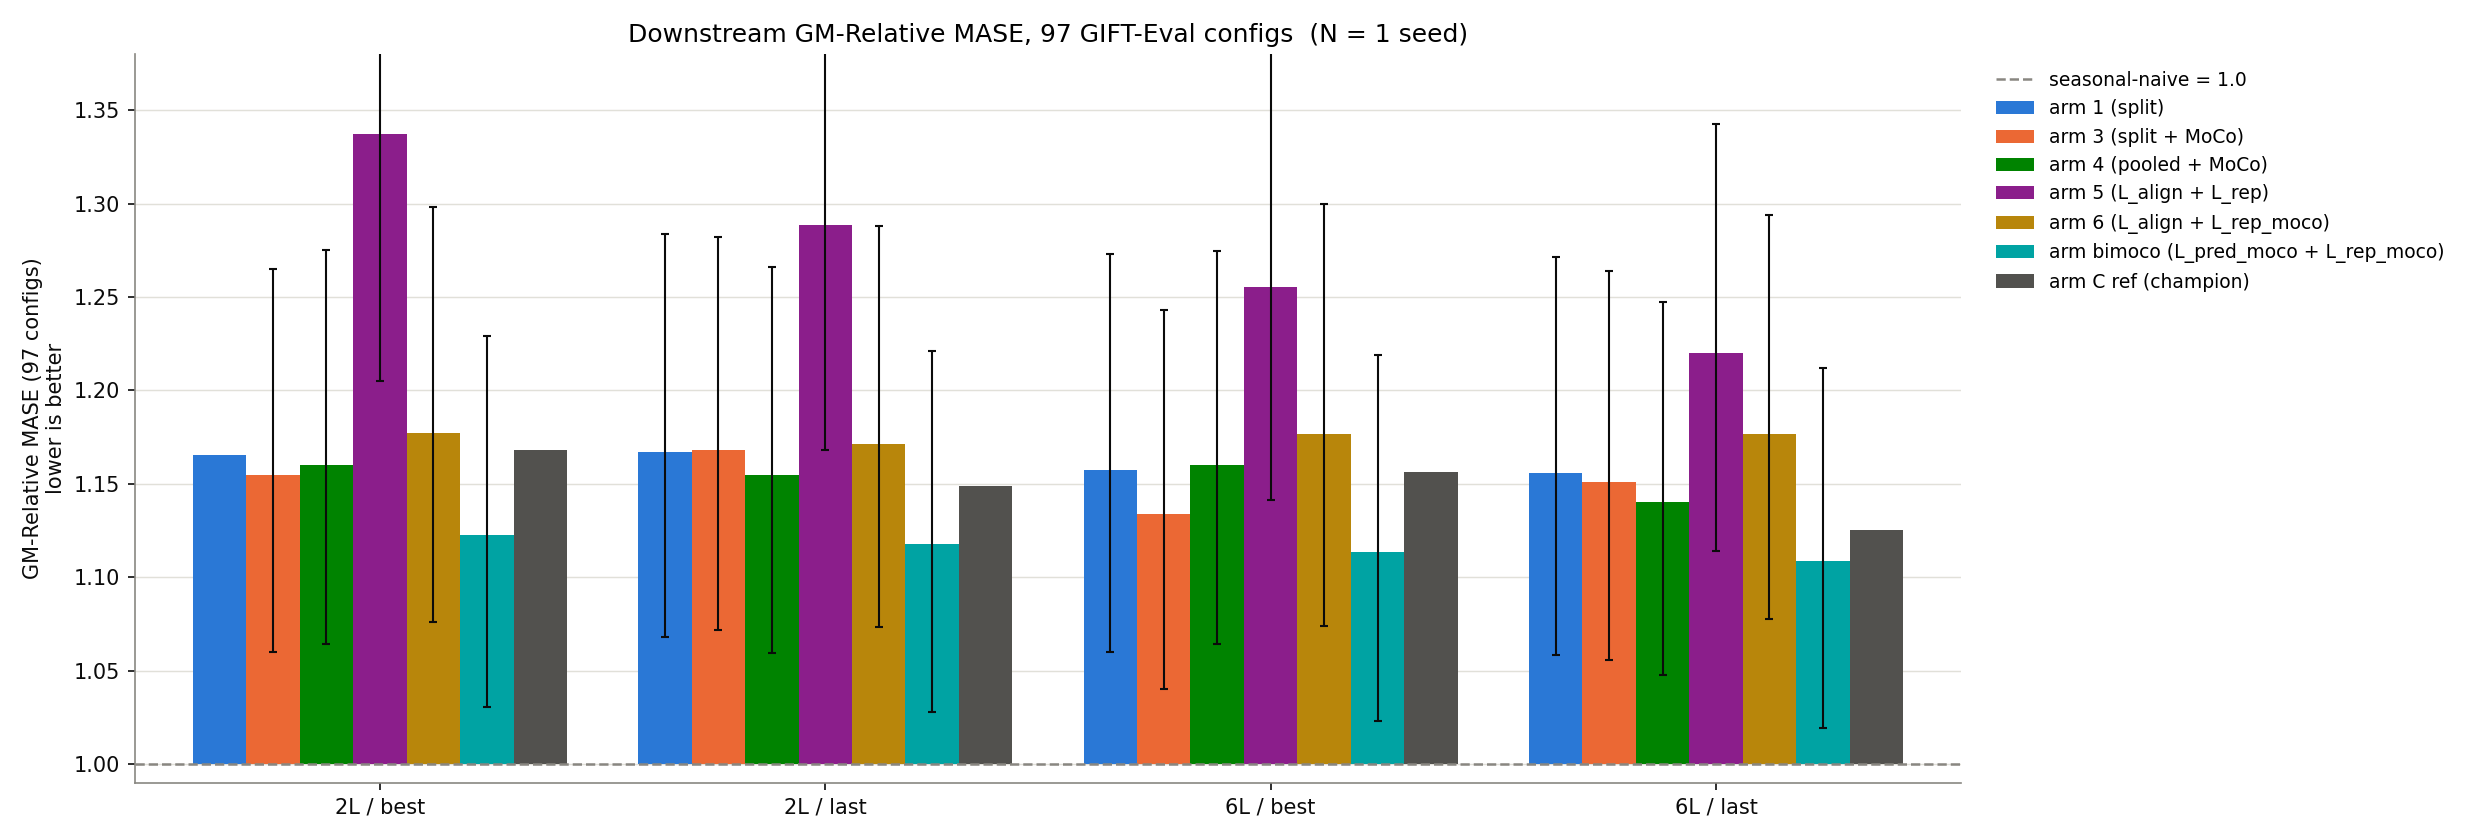
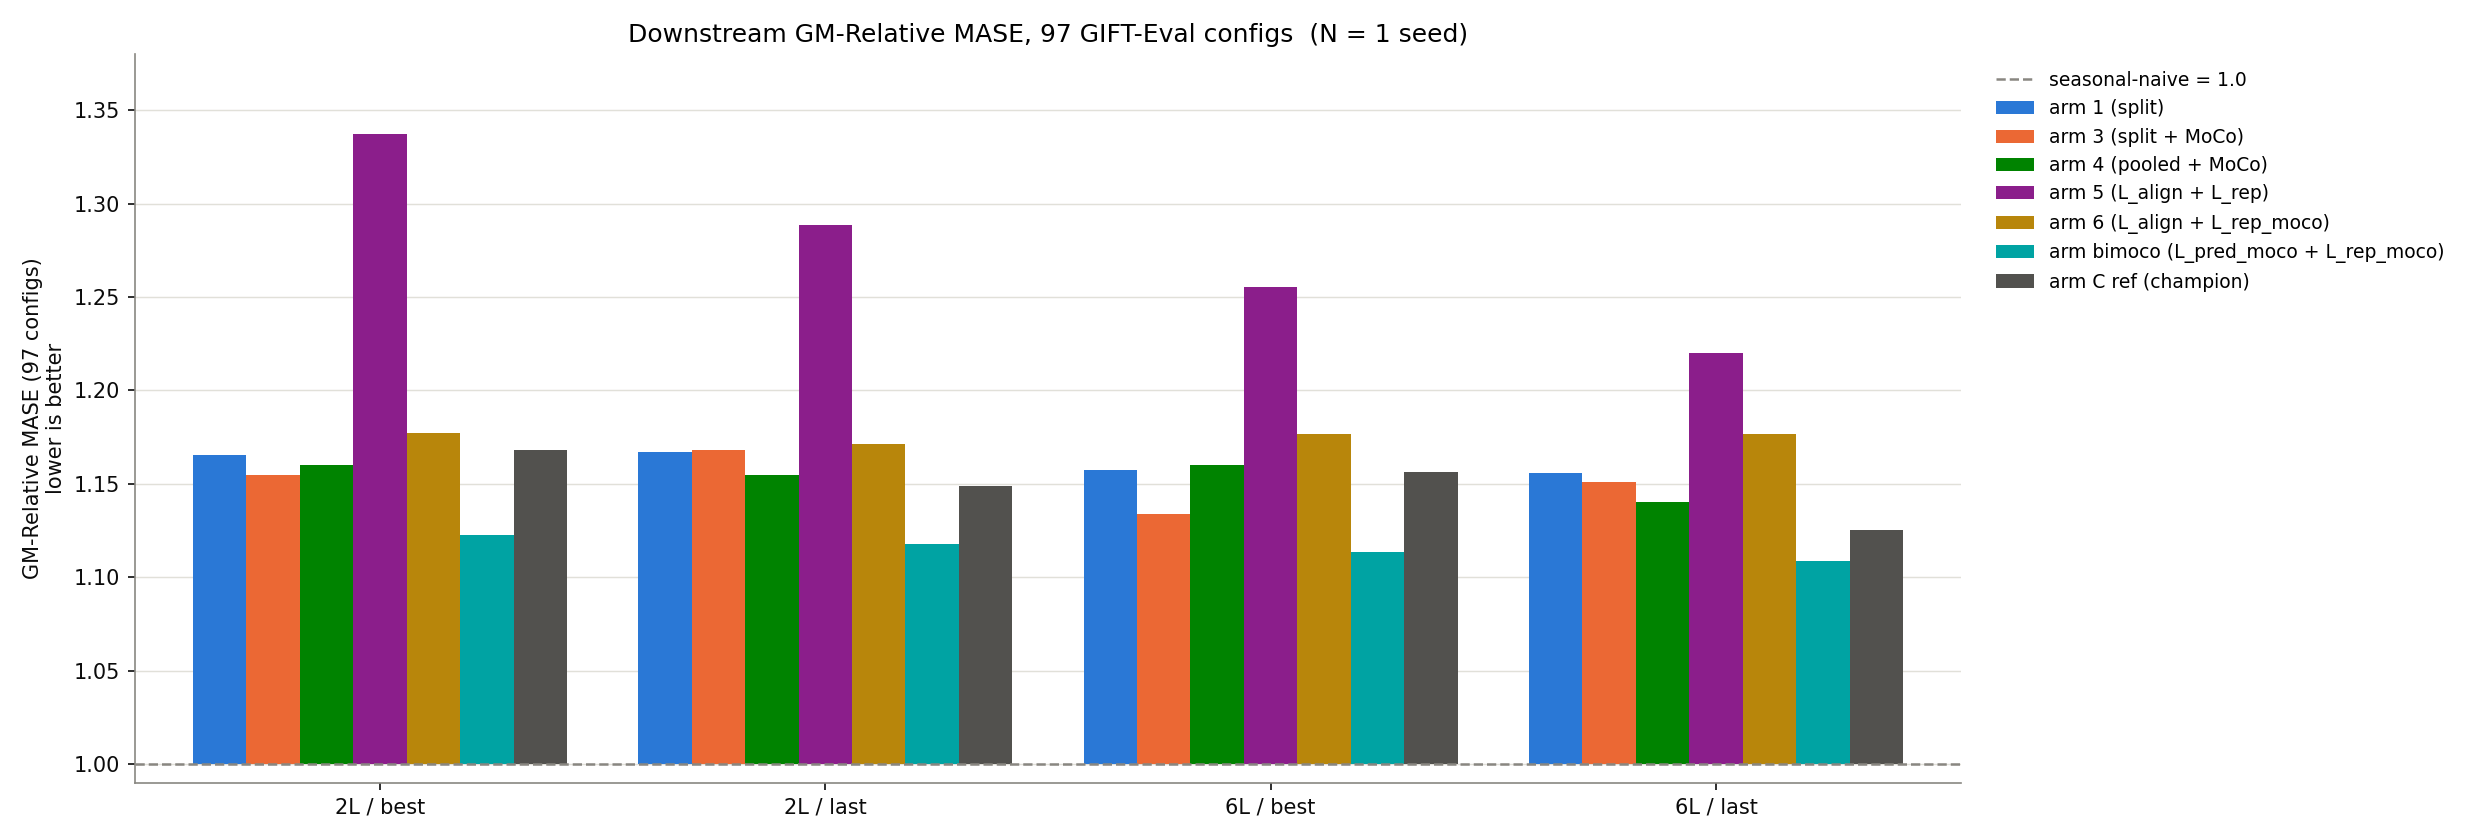
report(#374): apply reviewer edits — finding-first title/answer, drop marginal error bars from headline, define f/h/sg, note arm-2 gap

diff --git a/reports/2026-07-10_split_pred_rep/plots/_make_plots.py b/reports/2026-07-10_split_pred_rep/plots/_make_plots.py
@@ -122,11 +122,6 @@ def headline() -> None:
             vals = [read_aggregate(arm, h, c) for h, c in GROUPS]
         for xi, (v, (h, c)) in zip(x, zip(vals, GROUPS)):
             ax.bar(xi + off, v - 1.0, width, bottom=1.0, color=colour)
-            if arm is not None:
-                ci = bootstrap_gm_ci(cell_relatives(arm, h, c))
-                if ci is not None:
-                    ax.errorbar(xi + off, v, yerr=[[v - ci[0]], [ci[1] - v]],
-                                fmt="none", ecolor=INK, elinewidth=1.0, capsize=2)
         ax.bar(0, 0, color=colour, label=label)  # legend proxy
     ax.axhline(1.0, color=MUTED, lw=1.2, ls="--", label="seasonal-naive = 1.0")
     ax.set_xticks(x, [f"{h} / {c}" for h, c in GROUPS])

diff --git a/reports/2026-07-10_split_pred_rep/split_pred_rep.md b/reports/2026-07-10_split_pred_rep/split_pred_rep.md
@@ -1,14 +1,12 @@
-# Split L_pred + L_rep contrastive loss — arm sweep on the SIGReg-champion backbone
+# Splitting the contrastive loss into L_pred + L_rep does not beat the SIGReg-champion; MoCo-on-both (bimoco) leads the sibling arms, but only at 12,500 steps
 
 **Question.** The champion loss merges five negative tensors under one pooled log-sum-exp denominator. Does splitting it into `L_pred` (f-anchored) and `L_rep` (h-anchored) improve GM-Relative MASE on the GIFT-Eval 97-config panel, and does adding EMA-teacher MoCo keys or replacing `L_pred` with BYOL alignment change the answer? (terms defined in annex)
 
-**Answer.** No arm is established as beating the SIGReg-champion. Only point estimates exist against arm C (no per-task file → no CI). bimoco's estimates are lower than arm C in all four cells, but the narrowest gap is 0.0167 (6L / last: 1.1254 → 1.1087) — 1.1254 is the arm-C point estimate, an external file with no per-task CI, so the 0.0167 gap is a point-estimate difference only. Among the six sibling arms, `L_pred_moco + L_rep_moco` (bimoco) has the lowest GM-Relative MASE at all four 12,500-step (head, checkpoint) cells — 1.1225 / 1.1180 / 1.1138 / 1.1087 — and is 95 %-separated from arms 1, 3, 4, 5, 6 in every cell (paired task-bootstrap, below). The lead does not hold past 12,500 steps: arm 4 (pooled + MoCo) matches or beats bimoco at 25k. Single seed (20260520).
+**Answer.** No arm is established as beating the SIGReg-champion (arm C). Among the six sibling arms, `L_pred_moco + L_rep_moco` (bimoco) has the lowest GM-Relative MASE at all four 12,500-step (head, checkpoint) cells and is 95 %-separated from arms 1, 3, 4, 5, 6 in every cell (paired task-bootstrap, below). bimoco's point estimates are also below arm C in all four cells (narrowest gap 0.0167 at 6L / last), but arm C has no per-task file on this branch, so that gap is a point-estimate difference with no CI. The lead does not hold past 12,500 steps: arm 4 (pooled + MoCo) matches or beats bimoco at 25k. Single seed (20260520).
 
 ## Result
 
-![Downstream GM-Relative MASE per arm at each (head, checkpoint) cell. Bars carry the 95 % task-bootstrap band over the 97 configs; the champion (arm C) carries no paired CI. Dashed line = seasonal-naive (1.0).](plots/headline_relmase.png)
-
-These marginal bands are not the separation test; arm separation is read from the CI-forest figure below.
+![Downstream GM-Relative MASE per arm at each (head, checkpoint) cell (point estimates; N = 1 seed). Dashed line = seasonal-naive (1.0). Arm separation is the paired task-bootstrap in the CI-forest figure below, not a bar-to-bar comparison here.](plots/headline_relmase.png)
 
 | arm | 2L / best | 2L / last | 6L / best | 6L / last |
 | --- | --: | --: | --: | --: |
@@ -73,6 +71,8 @@ All backbones: B = 512, T = 4096, C = 1, τ = 0.10, `lr = 1e-3`, seed 20260520, 
 | arm bimoco | `cosine_similarity_batch_split_pred_rep` | `--moco-negatives --moco-rep-keys` | `L = L_pred_moco + L_rep_moco`; MoCo + positive-in-denominator on both terms |
 | arm C ref | `cosine_similarity_batch_full_hh_negs_xshh_allt` | — | SIGReg-cross champion (λ_e = 1, λ_h = 1, EMA τ = 0.90), reused without retraining |
 
+Arm 2 is a slot in the original issue numbering that was not run in this sweep; the arm sequence is 1, 3, 4, 5, 6, bimoco, C.
+
 ## Backbone step (annex)
 
 | arm | `best` cell step | `last` cell step | `FINAL.pth` = |
@@ -89,12 +89,13 @@ Arms 1 and 4's `best`-cell backbone is not the argmin of a comparable curve: arm
 
 ## Definitions (annex)
 
+- *f* / *h* — *f* is the forecaster's next-step latent (the forecast); *h* is the encoder's original latent. *f-anchored* / *h-anchored* families take *f* resp. *h* as the query.
 - *GM-Relative MASE* — geometric mean over the 97 GIFT-Eval configs of `(model MASE) / (seasonal-naive MASE)`, at quantile 0.5. Lower is better; 1.0 = seasonal-naive.
 - *log-sum-exp denominator* — the InfoNCE normaliser at an anchor: the soft-max over all negative similarity scores (and, under `--pos-in-denominator`, the positive score too).
 - *MoCo* — cross-batch keys sourced from an EMA teacher (τ = 0.90) instead of the student.
 - *SIGReg* — the spectral isotropy regulariser applied to the encoder (λ_e) and head (λ_h) latents; the champion uses λ_e = λ_h = 1.
 - *CPC* — the contrastive predictive-coding auxiliary head, on in every arm.
-- *BYOL alignment (`L_align`)* — `2 − 2·cos(f_t, sg(h^T_{t+1}))`; negative-free, minimum 0.
+- *BYOL alignment (`L_align`)* — `2 − 2·cos(f_t, sg(h^T_{t+1}))` (sg = stop-gradient); negative-free, minimum 0.
 - *`L_rep_moco`* — normalized InfoNCE over the three h-anchored families with teacher-side keys; the same-batch same-time student ↔ teacher pair sits in both numerator and denominator log-sum-exp.
 - *`auc` / `top1`* — retrieval quality of the f-anchored positive against the B = 512 cross-batch candidates: ROC area of the positive-score distribution, and the fraction of anchors whose positive ranks first.
 - *B4* — GIFT-Eval evaluation strategy B4 (teacher-forced probe over the full 97-config panel).
